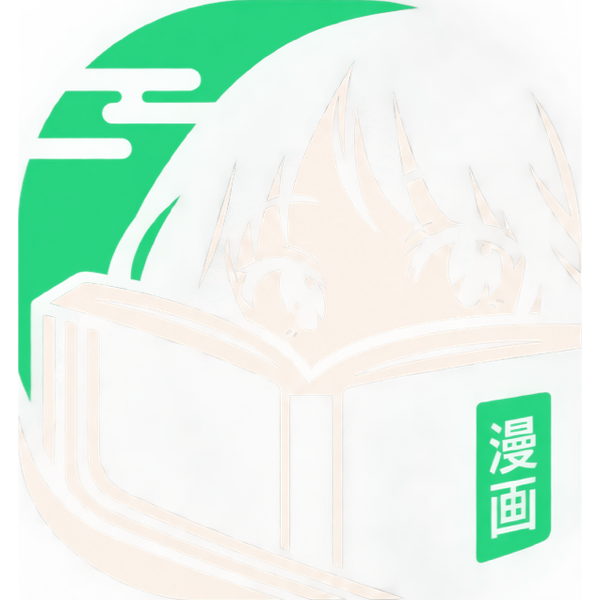
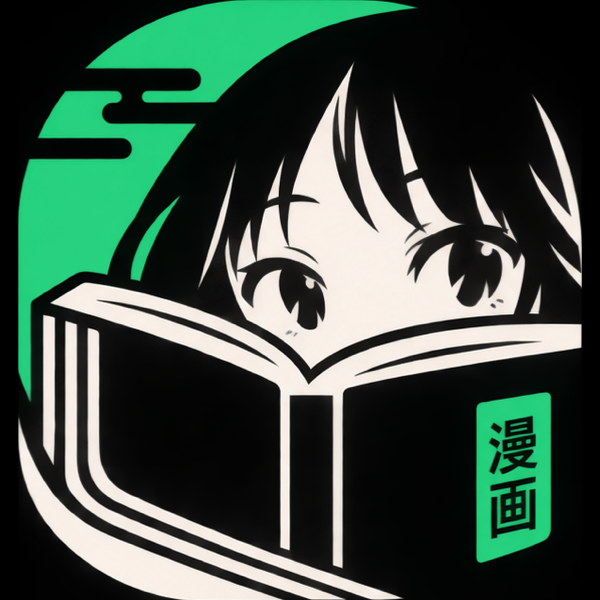
fix: draw the mark of the empty shelf on black

diff --git a/assets/brand/render.swift b/assets/brand/render.swift
@@ -82,8 +82,9 @@ func write(_ image: CGImage, _ path: URL) {
 let black = CGColor(srgbRed: 0, green: 0, blue: 0, alpha: 1)
 write(square(1024, fill: 1, background: black), root.appendingPathComponent("icon-1024.png"))
 write(square(512, fill: 1, background: black), root.appendingPathComponent("icon-512.png"))
-write(square(600, fill: 1, background: nil), root.appendingPathComponent("mark.png"))
-write(square(600, fill: 1, background: nil), res.appendingPathComponent("drawable-nodpi/mark.png"))
+write(square(600, fill: 1, background: black), root.appendingPathComponent("mark.png"))
+// The mark has dark lines, so it keeps the black of the icon on the paper look too.
+write(square(600, fill: 1, background: black), res.appendingPathComponent("drawable-nodpi/mark.png"))
 
 // An adaptive icon is 108 dp. The launcher shows the middle 72 dp, and a mask can cut to 66 dp.
 let densities = [("mdpi", 1.0), ("hdpi", 1.5), ("xhdpi", 2.0), ("xxhdpi", 3.0), ("xxxhdpi", 4.0)]
